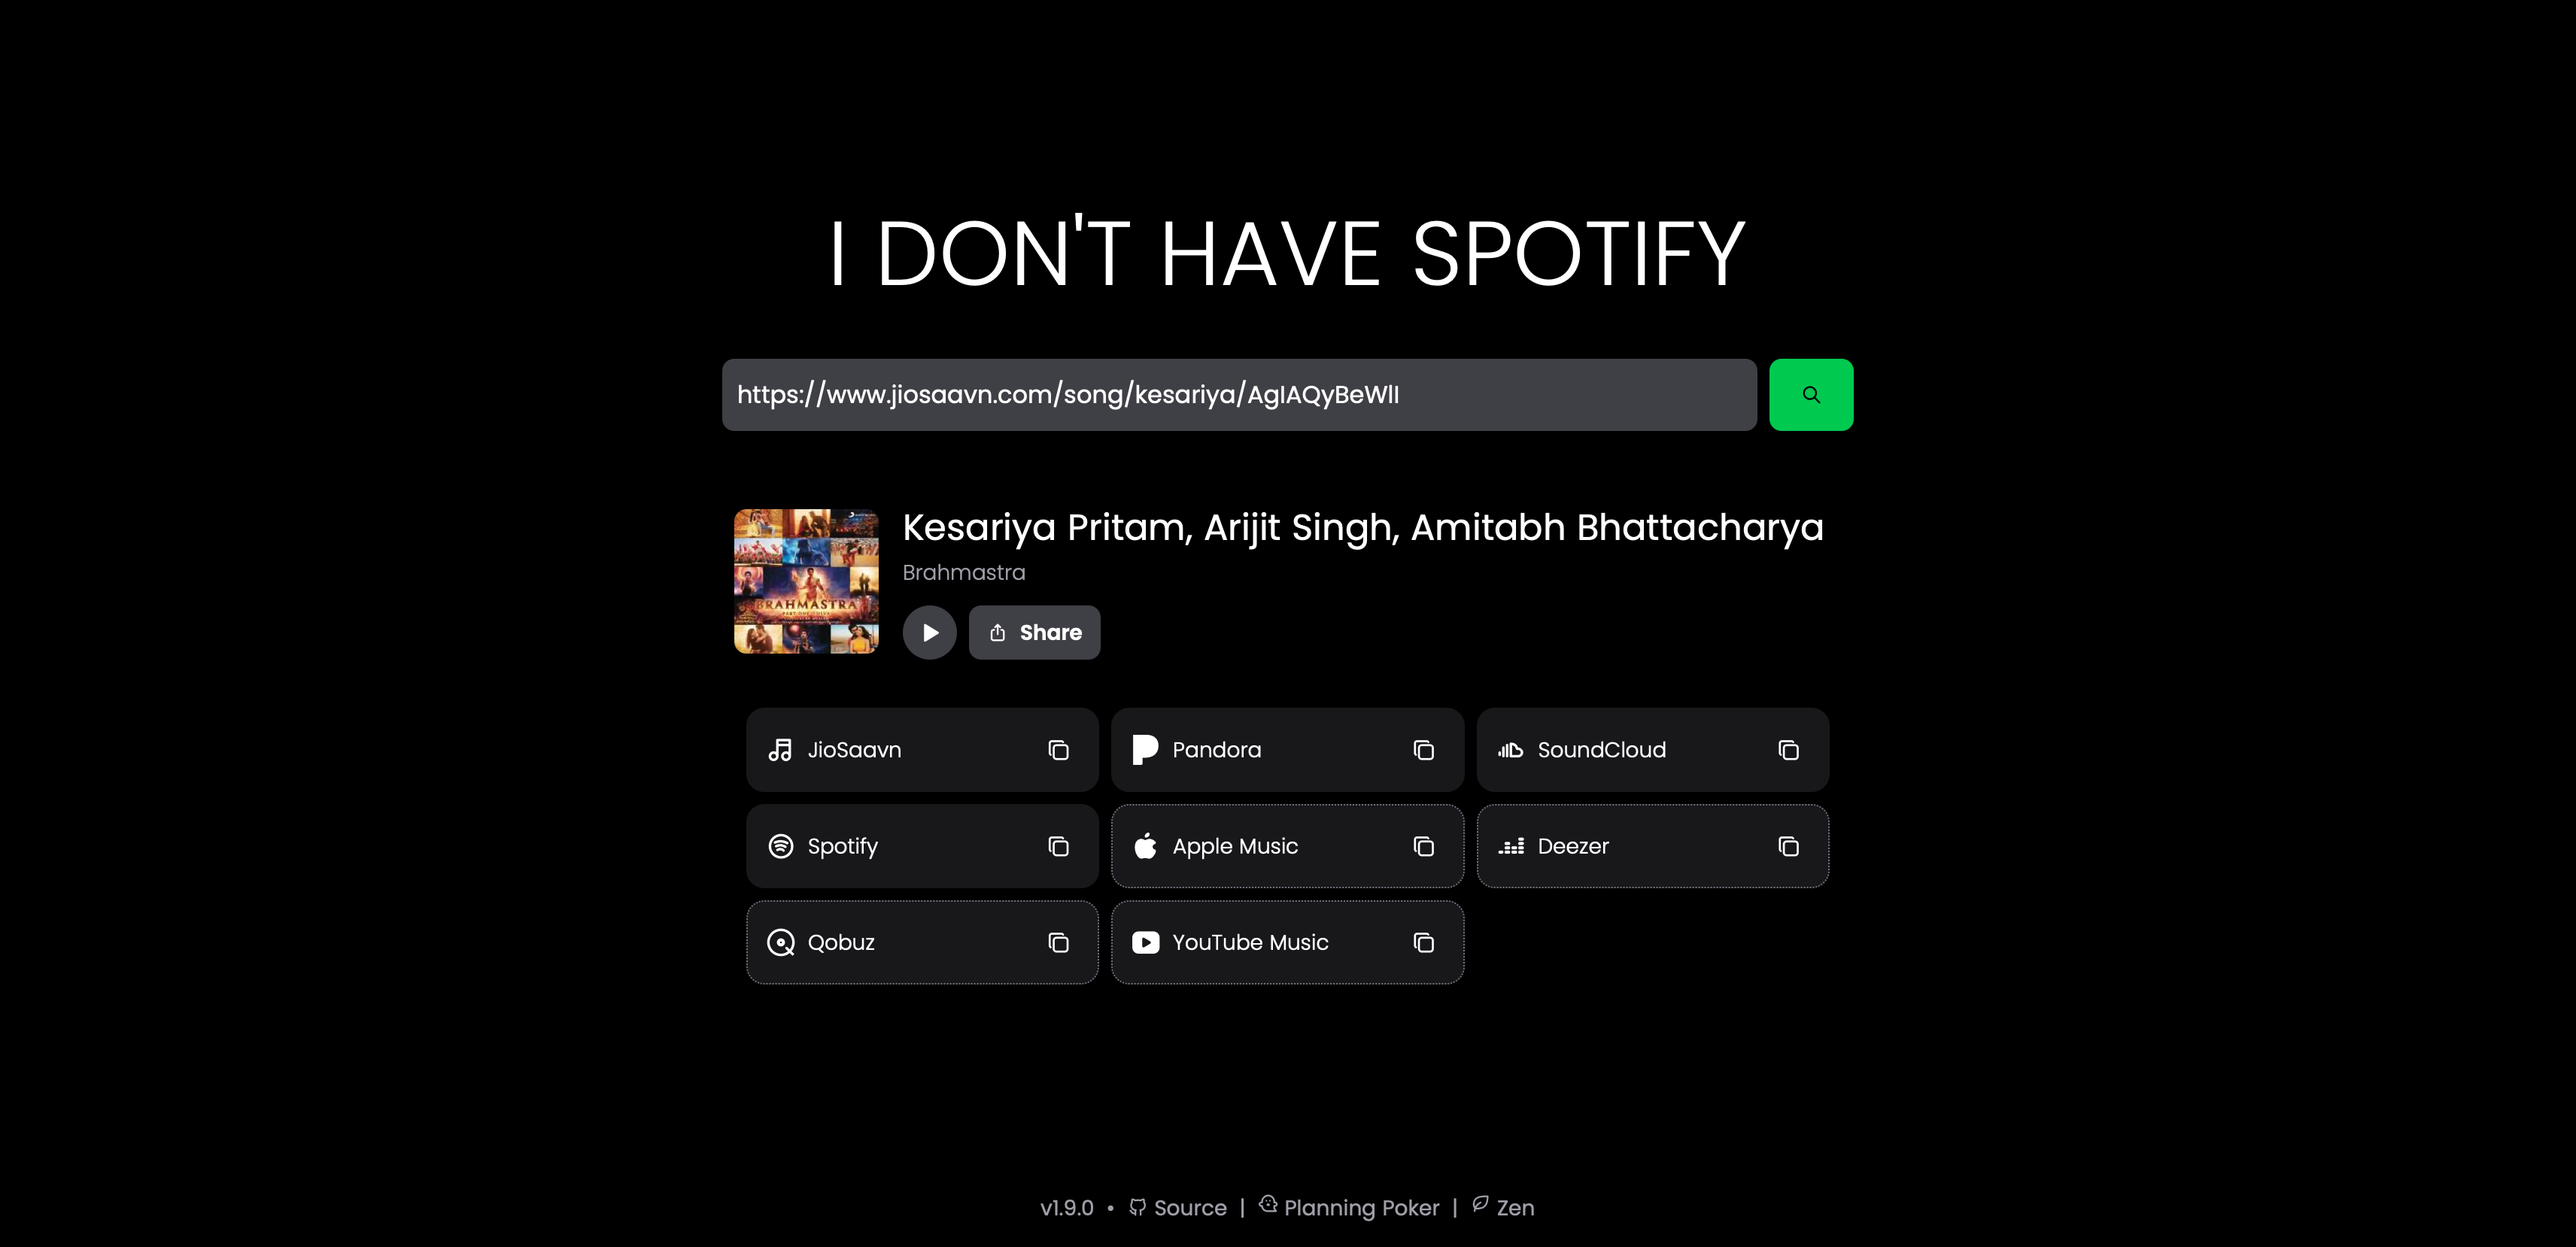
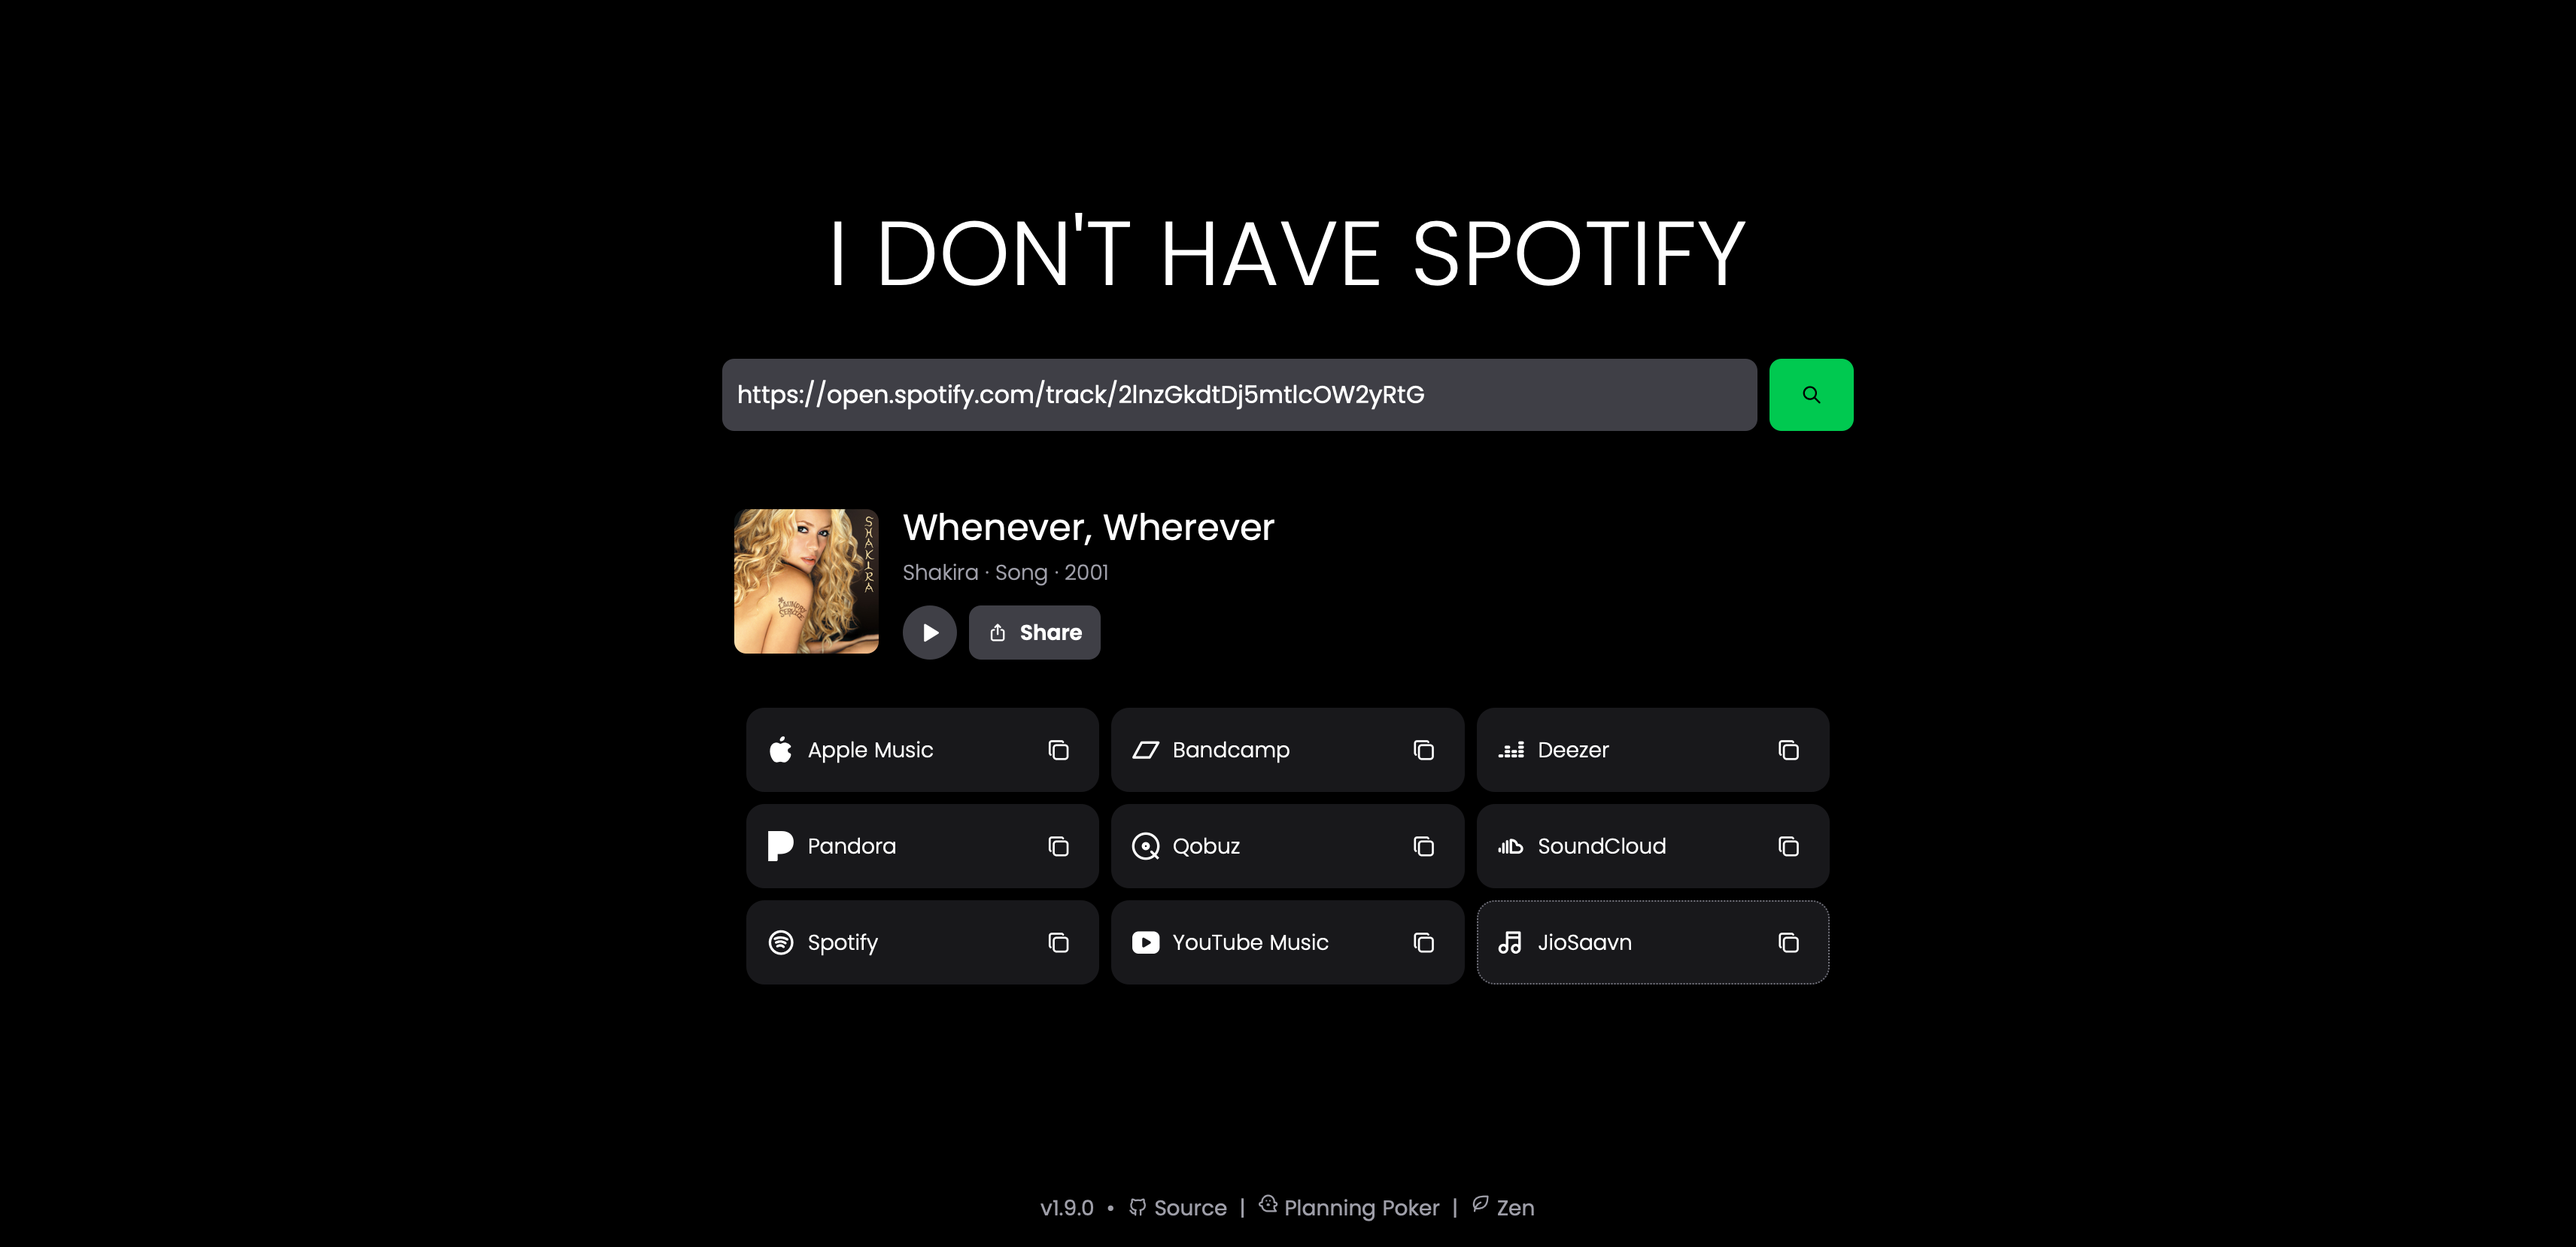
chore(footer): rename Planning Tool to Planning Poker

diff --git a/tests/page.integration.test.ts b/tests/page.integration.test.ts
@@ -66,7 +66,7 @@ describe('Page router', () => {
       expect(footerText).not.toContain('@sjdonado');
       expect(footerText).not.toContain('Status');
       expect(footerText).toContain('Source');
-      expect(footerText).toContain('Planning Tool');
+      expect(footerText).toContain('Planning Poker');
     });
   });
 

diff --git a/src/views/components/footer-content.tsx b/src/views/components/footer-content.tsx
@@ -26,7 +26,7 @@ export default function FooterContent() {
         rel="noreferrer"
       >
         <i class="ti ti-ghost-2 mr-1" />
-        <span>Planning Tool</span>
+        <span>Planning Poker</span>
       </a>
       <span aria-hidden="true">|</span>
       <a

diff --git a/README.md b/README.md
@@ -12,18 +12,18 @@ First a parser figures out which platform your link came from and pulls out norm
 
 Then adapters take that query and search each destination platform for the best match, each in its own way: some have official APIs, others are searched through their public pages. Every adapter answers the same question with the same shape, a URL plus two honest flags. `isVerified` means the platform gave a strong match signal, and `notAvailable` means the score was so low you probably should not trust it. That logic lives in `src/adapters`, again one file per platform.
 
-| Adapter          | Inverted Search | Official API           | Verified Links |
-| ---------------- | --------------- | ---------------------- | -------------- |
-| Spotify          | Yes             | No                     | Yes            |
-| Tidal            | Yes (fallback)  | No                     | Yes            |
-| YouTube Music    | Yes             | No                     | Yes            |
-| Apple Music      | Yes             | No                     | Yes            |
-| Deezer           | Yes             | Yes                    | Yes            |
-| SoundCloud       | Yes             | No                     | Yes            |
-| Qobuz            | Yes             | No                     | Yes            |
-| Bandcamp         | Yes             | No                     | Yes            |
-| Pandora          | Yes             | No                     | Yes            |
-| JioSaavn         | Yes             | No                     | Yes            |
+| Adapter       | Inverted Search | Official API | Verified Links |
+| ------------- | --------------- | ------------ | -------------- |
+| Spotify       | Yes             | No           | Yes            |
+| Tidal         | Yes (fallback)  | No           | Yes            |
+| YouTube Music | Yes             | No           | Yes            |
+| Apple Music   | Yes             | No           | Yes            |
+| Deezer        | Yes             | Yes          | Yes            |
+| SoundCloud    | Yes             | No           | Yes            |
+| Qobuz         | Yes             | No           | Yes            |
+| Bandcamp      | Yes             | No           | Yes            |
+| Pandora       | Yes             | No           | Yes            |
+| JioSaavn      | Yes             | No           | Yes            |
 
 "Inverted search" means the adapter can be a search target. A few notes on the ones that behave unusually: Spotify has no usable official API for this project, so search runs through the same internal GraphQL API the Spotify web player uses, with an anonymous access token minted by a TOTP flow (more on that below). Tidal has no usable search of its own for this project (its API needs a portal-granted entitlement that was refused, and its pages sit behind a bot wall), so it resolves through a MusicBrainz fallback instead: the work is matched by title and artist, and its curated streaming links fill whichever adapters missed, Tidal included. Apple Music on the edge resolves through its catalog pages with no audio preview.
 
@@ -32,7 +32,7 @@ Then adapters take that query and search each destination platform for the best 
 The web app is the main interface, a single page with a search bar, instant result cards, and shareable universal links in the form `APP_URL?id=<id>`. Anyone opening your universal link sees the same result card without searching again.
 
 <div align="center">
-  <img width="1712" height="829" alt="Search result card for a JioSaavn track, with a JioSaavn row first" src="docs/screenshot.png" />
+  <img width="1712" height="829" alt="Search result card for a Shakira track, with rows for every service" src="docs/screenshot.png" />
 </div>
 
 ### Raycast
